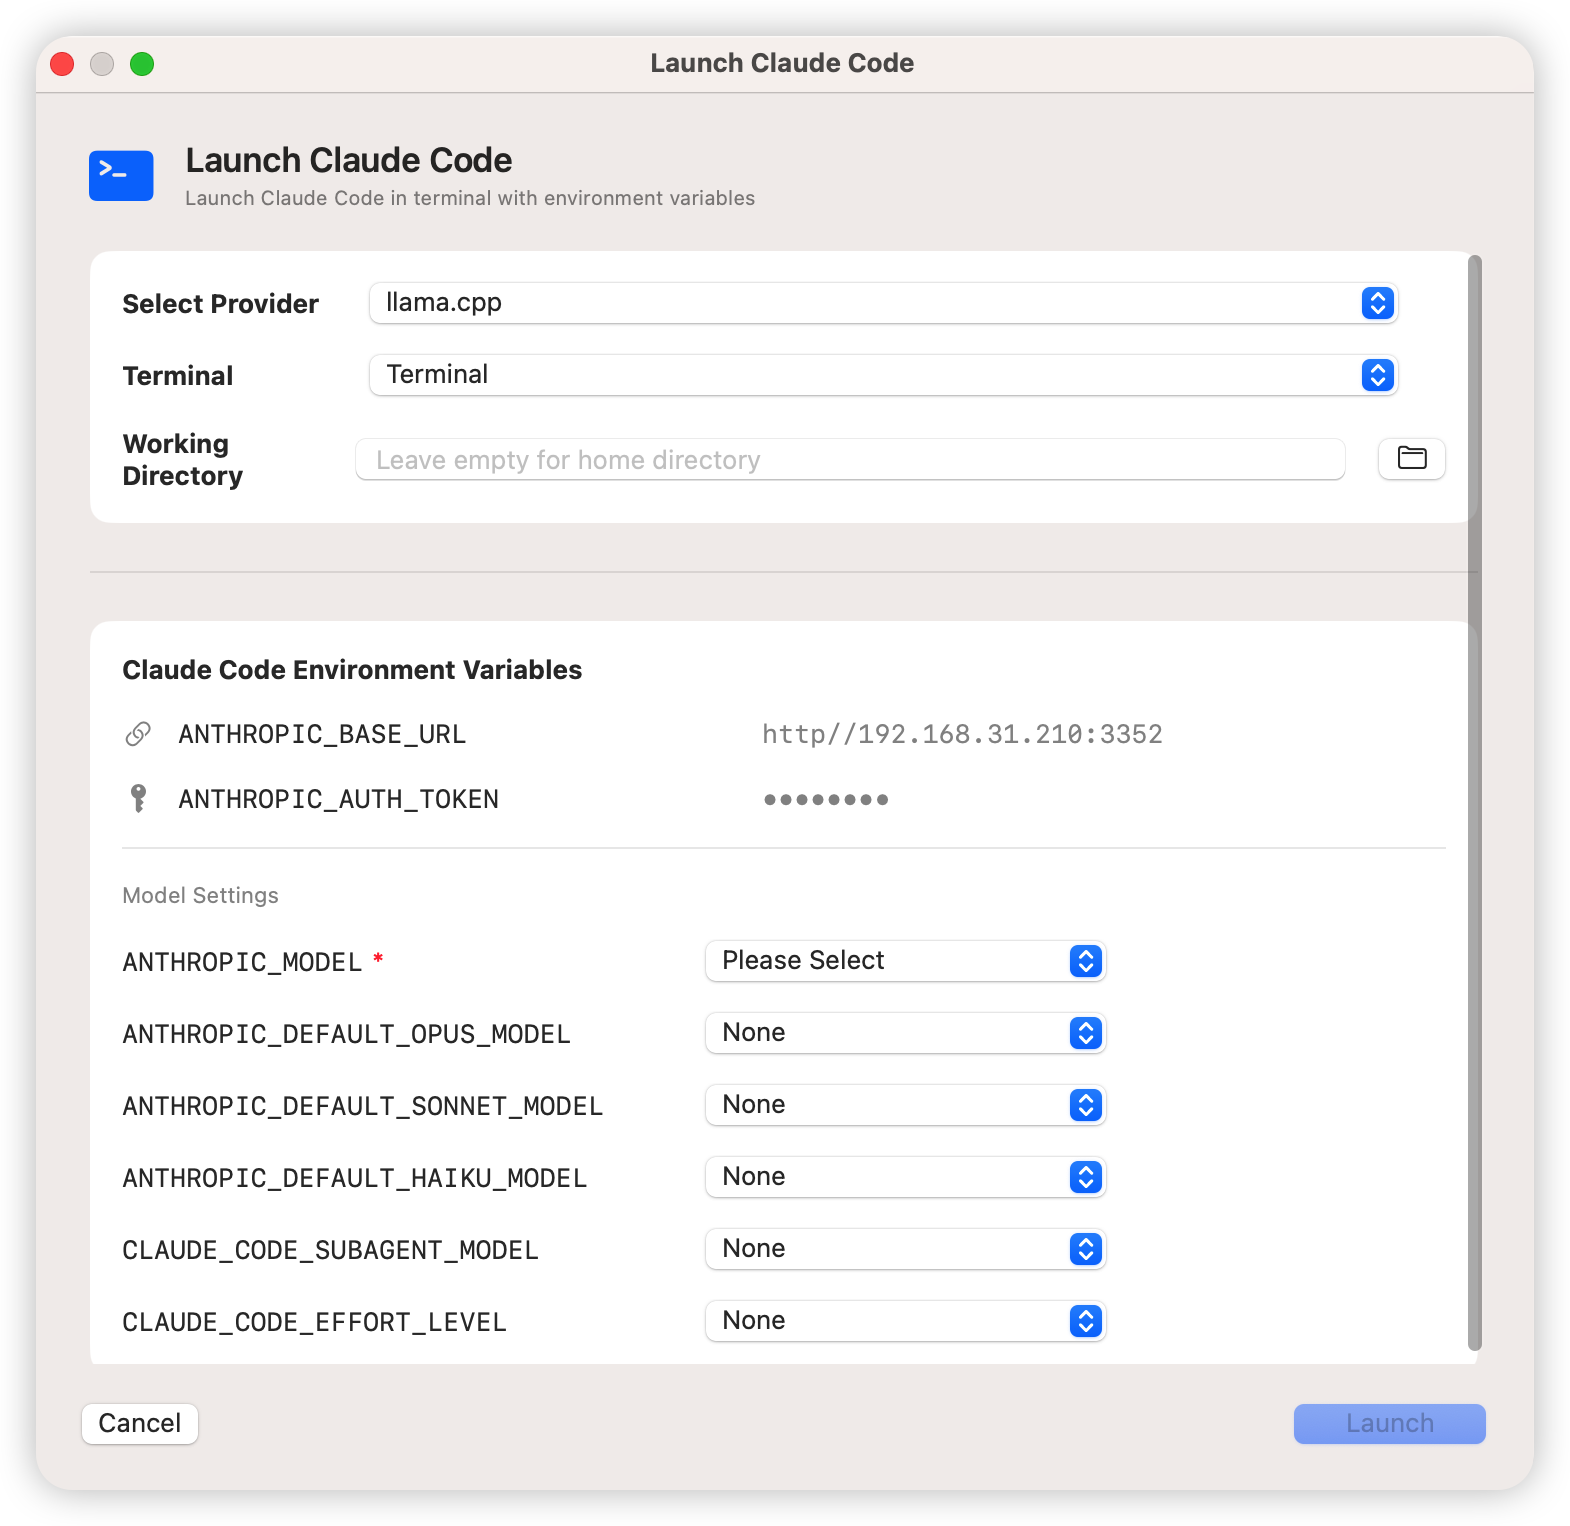
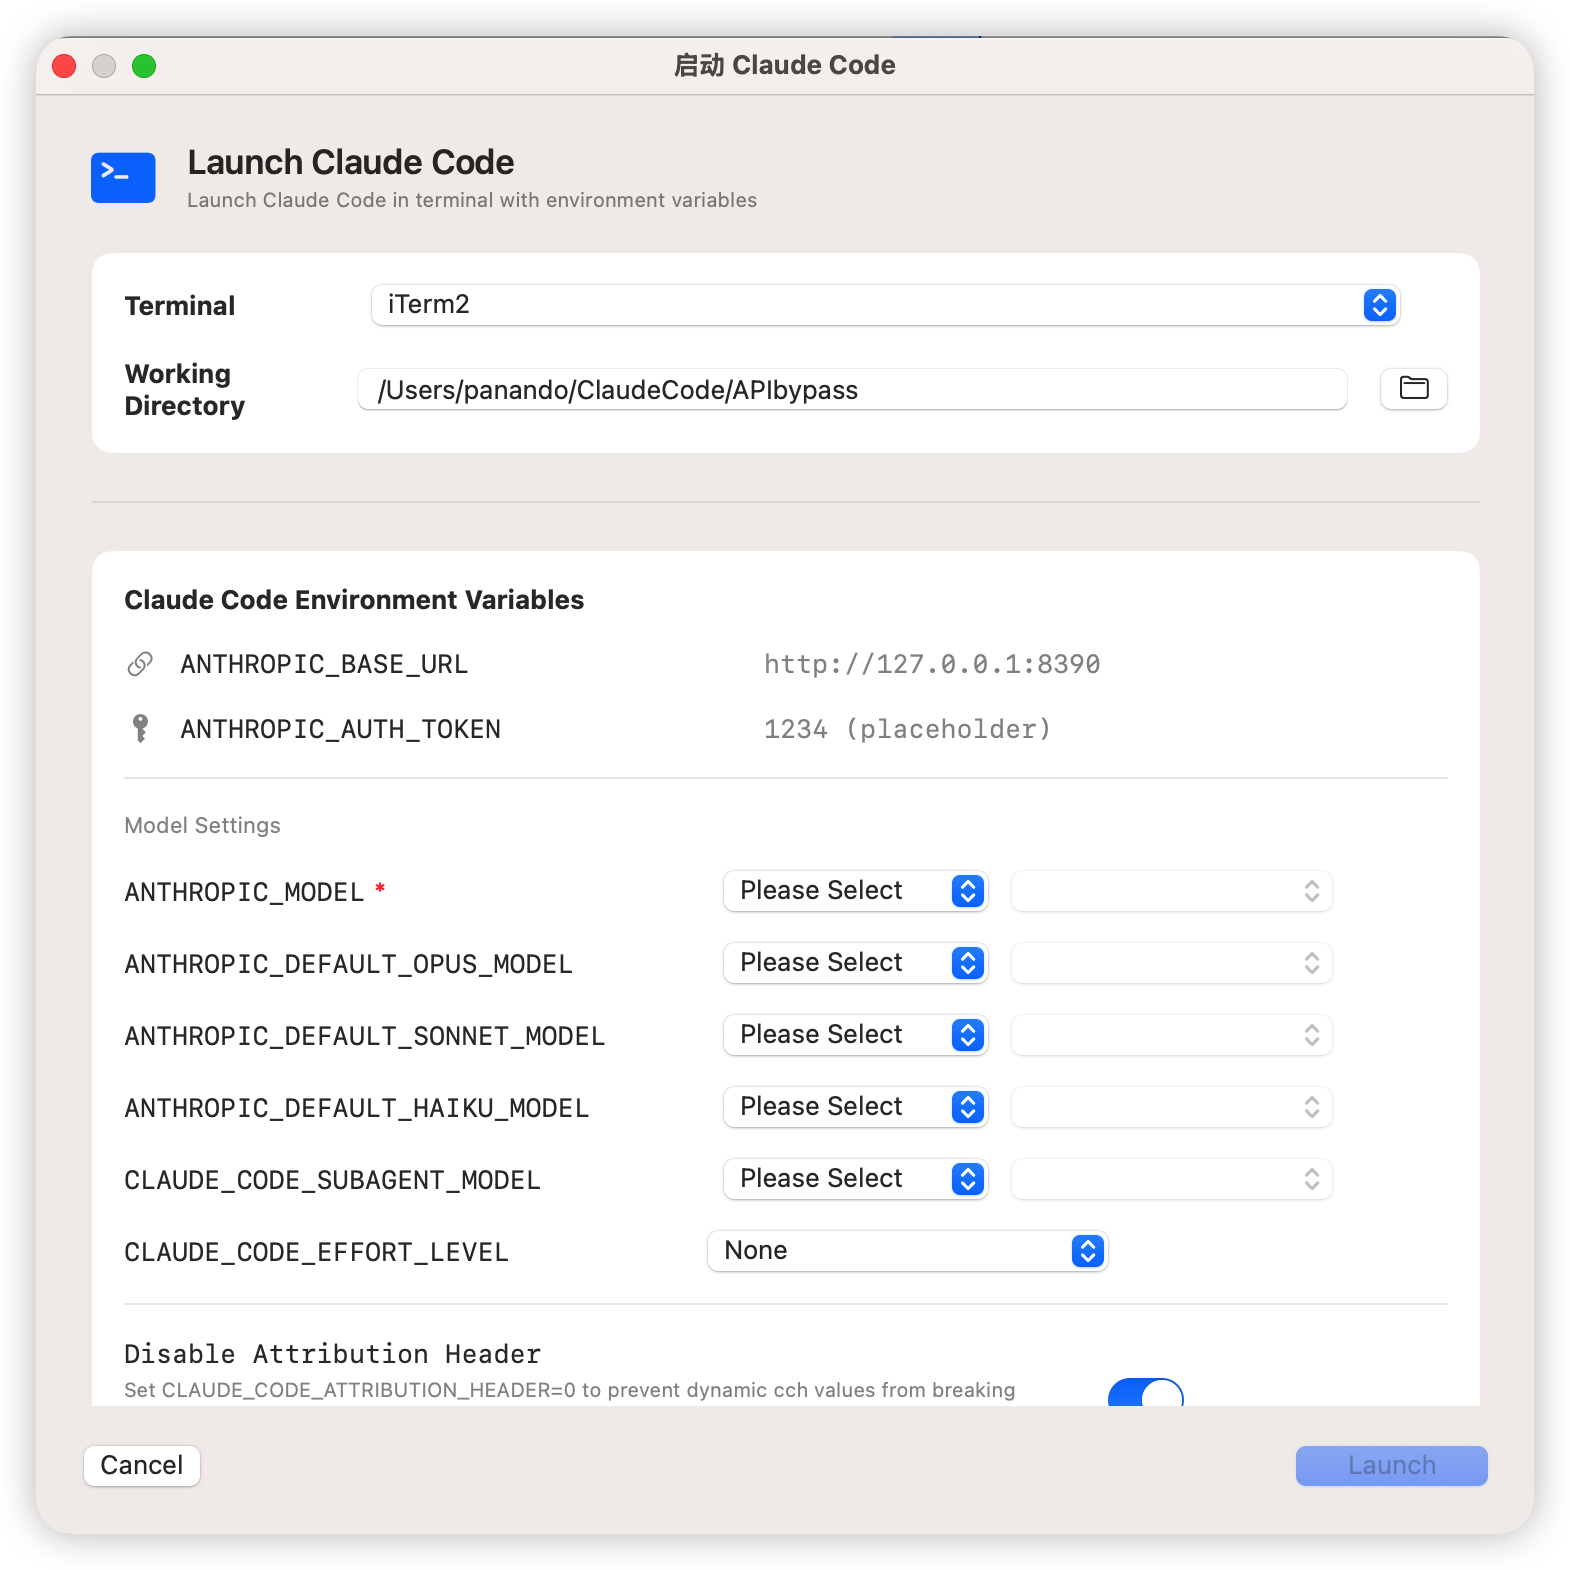
feat: v0.5.3 — Cross-provider model selection in Claude Code launcher
- Replace single provider picker with per-model two-tier selection (provider → mapping)
- Each model env var (ANTHROPIC_MODEL, OPUS, SONNET, HAIKU, SUBAGENT) can target different providers
- Remove redundant top-level provider selector from launcher UI
- Update screenshot for new launcher layout
- Bump version to 0.5.3

diff --git a/APIBypass/UI/Views/LaunchClaudeCodeView.swift b/APIBypass/UI/Views/LaunchClaudeCodeView.swift
@@ -5,27 +5,36 @@ struct LaunchClaudeCodeView: View {
     @Environment(\.dismiss) private var dismiss
 
     // 持久化设置
-    @AppStorage("launcher.selectedProviderId") private var savedProviderId: String?
+
     @AppStorage("launcher.selectedTerminalId") private var savedTerminalId: String = "terminal"
     @AppStorage("launcher.workingDirectory") private var savedWorkingDirectory: String = ""
     @AppStorage("launcher.anthropicModel") private var savedAnthropicModel: String = ""
+    @AppStorage("launcher.anthropicModelProviderId") private var savedAnthropicModelProviderId: String?
     @AppStorage("launcher.opusModel") private var savedOpusModel: String = ""
+    @AppStorage("launcher.opusModelProviderId") private var savedOpusModelProviderId: String?
     @AppStorage("launcher.sonnetModel") private var savedSonnetModel: String = ""
+    @AppStorage("launcher.sonnetModelProviderId") private var savedSonnetModelProviderId: String?
     @AppStorage("launcher.haikuModel") private var savedHaikuModel: String = ""
+    @AppStorage("launcher.haikuModelProviderId") private var savedHaikuModelProviderId: String?
     @AppStorage("launcher.subagentModel") private var savedSubagentModel: String = ""
+    @AppStorage("launcher.subagentModelProviderId") private var savedSubagentModelProviderId: String?
     @AppStorage("launcher.effortLevel") private var savedEffortLevel: String = ""
     @AppStorage("launcher.disableAttributionHeader") private var savedDisableAttributionHeader: Bool = false
     @AppStorage("launcher.rectifierEnabled") private var savedRectifierEnabled: Bool = true
     @AppStorage("serverPort") private var serverPort: Int = 8390
 
-    @State private var selectedProviderId: UUID?
     @State private var selectedTerminalId: String = "terminal"
     @State private var workingDirectory: String = ""
     @State private var showDirectoryPicker = false
+    @State private var anthropicModelProviderId: UUID?
     @State private var anthropicModel: String = ""
+    @State private var opusModelProviderId: UUID?
     @State private var opusModel: String = ""
+    @State private var sonnetModelProviderId: UUID?
     @State private var sonnetModel: String = ""
+    @State private var haikuModelProviderId: UUID?
     @State private var haikuModel: String = ""
+    @State private var subagentModelProviderId: UUID?
     @State private var subagentModel: String = ""
     @State private var effortLevel: String = ""
     @State private var disableAttributionHeader: Bool = false
@@ -42,17 +51,12 @@ struct LaunchClaudeCodeView: View {
         availableTerminals.first { $0.id == selectedTerminalId }
     }
 
-    private var selectedProvider: ProviderConfig? {
-        guard let id = selectedProviderId else { return nil }
-        return configManager.findProvider(for: id)
-    }
-
     private var localBaseURL: String {
         "http://127.0.0.1:\(serverPort)"
     }
 
     private var canLaunch: Bool {
-        guard selectedProvider != nil,
+        guard anthropicModelProviderId != nil,
               !anthropicModel.isEmpty,
               selectedTerminal != nil else {
             return false
@@ -70,13 +74,10 @@ struct LaunchClaudeCodeView: View {
                     // 提供商、终端、目录选择
                     selectionSection
 
-                    if let provider = selectedProvider {
-                        Divider()
-                            .padding(.vertical, 4)
+                    Divider()
+                        .padding(.vertical, 4)
 
-                        // 环境变量配置
-                        envVarsSection(provider: provider)
-                    }
+                    envVarsSection
                 }
                 .padding(.horizontal, 4)
             }
@@ -137,25 +138,6 @@ struct LaunchClaudeCodeView: View {
 
     private var selectionSection: some View {
         VStack(spacing: 16) {
-            // 提供商选择
-            HStack(spacing: 16) {
-                Text(L10n.t("select_provider"))
-                    .font(.headline)
-                    .frame(width: 100, alignment: .leading)
-
-                Picker("", selection: $selectedProviderId) {
-                    Text(L10n.t("please_select")).tag(UUID?.none)
-                    ForEach(configManager.providers) { provider in
-                        Text(provider.name).tag(provider.id as UUID?)
-                    }
-                }
-                .pickerStyle(.menu)
-                .frame(maxWidth: .infinity)
-                .onChange(of: selectedProviderId) { _, _ in saveSettings() }
-
-                Spacer()
-            }
-
             // 终端选择
             HStack(spacing: 16) {
                 Text(L10n.t("select_terminal"))
@@ -199,7 +181,7 @@ struct LaunchClaudeCodeView: View {
 
     // MARK: - Environment Variables Section
 
-    private func envVarsSection(provider: ProviderConfig) -> some View {
+    private var envVarsSection: some View {
         VStack(alignment: .leading, spacing: 16) {
             Text(L10n.t("claude_code_env_vars_title"))
                 .font(.headline)
@@ -229,34 +211,34 @@ struct LaunchClaudeCodeView: View {
             // ANTHROPIC_MODEL (必填)
             modelPickerRow(
                 name: "ANTHROPIC_MODEL",
-                selection: $anthropicModel,
-                mappings: enabledMappings(provider: provider),
+                providerId: $anthropicModelProviderId,
+                model: $anthropicModel,
                 isRequired: true
             )
 
             // 其他模型配置
             modelPickerRow(
                 name: "ANTHROPIC_DEFAULT_OPUS_MODEL",
-                selection: $opusModel,
-                mappings: enabledMappings(provider: provider)
+                providerId: $opusModelProviderId,
+                model: $opusModel
             )
 
             modelPickerRow(
                 name: "ANTHROPIC_DEFAULT_SONNET_MODEL",
-                selection: $sonnetModel,
-                mappings: enabledMappings(provider: provider)
+                providerId: $sonnetModelProviderId,
+                model: $sonnetModel
             )
 
             modelPickerRow(
                 name: "ANTHROPIC_DEFAULT_HAIKU_MODEL",
-                selection: $haikuModel,
-                mappings: enabledMappings(provider: provider)
+                providerId: $haikuModelProviderId,
+                model: $haikuModel
             )
 
             modelPickerRow(
                 name: "CLAUDE_CODE_SUBAGENT_MODEL",
-                selection: $subagentModel,
-                mappings: enabledMappings(provider: provider)
+                providerId: $subagentModelProviderId,
+                model: $subagentModel
             )
 
             // EFFORT_LEVEL
@@ -351,7 +333,7 @@ struct LaunchClaudeCodeView: View {
         }
     }
 
-    private func modelPickerRow(name: String, selection: Binding<String>, mappings: [ModelMapping], isRequired: Bool = false) -> some View {
+    private func modelPickerRow(name: String, providerId: Binding<UUID?>, model: Binding<String>, isRequired: Bool = false) -> some View {
         HStack(spacing: 12) {
             HStack(spacing: 4) {
                 Text(name)
@@ -365,15 +347,35 @@ struct LaunchClaudeCodeView: View {
             }
             .frame(width: 280, alignment: .leading)
 
-            Picker("", selection: selection) {
-                Text(isRequired ? L10n.t("please_select") : L10n.t("none")).tag("")
-                ForEach(mappings, id: \.id) { mapping in
-                    Text(mapping.incomingModel).tag(mapping.incomingModel)
+            Picker("", selection: providerId) {
+                Text(L10n.t("please_select")).tag(UUID?.none)
+                ForEach(configManager.providers) { provider in
+                    Text(provider.name).tag(provider.id as UUID?)
                 }
             }
+            .pickerStyle(.menu)
+            .frame(width: 140)
+            .onChange(of: providerId.wrappedValue) { oldValue, newValue in
+                if oldValue != newValue {
+                    model.wrappedValue = ""
+                }
+                saveSettings()
+            }
+
+            let selectedProvider = providerId.wrappedValue.flatMap { configManager.findProvider(for: $0) }
+            Picker("", selection: model) {
+                Text(isRequired ? L10n.t("please_select") : L10n.t("none")).tag("")
+                if let provider = selectedProvider {
+                    ForEach(enabledMappings(provider: provider), id: \.id) { mapping in
+                        Text(mapping.incomingModel).tag(mapping.incomingModel)
+                    }
+                }
+            }
+            .pickerStyle(.menu)
             .labelsHidden()
-            .frame(width: 200)
-            .onChange(of: selection.wrappedValue) { _, _ in saveSettings() }
+            .frame(width: 160)
+            .disabled(selectedProvider == nil)
+            .onChange(of: model.wrappedValue) { _, _ in saveSettings() }
 
             Spacer()
         }
@@ -431,42 +433,50 @@ struct LaunchClaudeCodeView: View {
     // MARK: - Persistence
 
     private func loadSavedSettings() {
-        // 恢复上次选择的提供商
-        if let idString = savedProviderId,
-           let id = UUID(uuidString: idString),
-           configManager.findProvider(for: id) != nil {
-            selectedProviderId = id
-        }
-
-        // 恢复终端选择
         if availableTerminals.contains(where: { $0.id == savedTerminalId }) {
             selectedTerminalId = savedTerminalId
         } else if let first = availableTerminals.first {
             selectedTerminalId = first.id
         }
 
-        // 恢复工作目录
         workingDirectory = savedWorkingDirectory
 
-        // 恢复上次的环境变量设置
+        anthropicModelProviderId = uuidFrom(saved: savedAnthropicModelProviderId)
         anthropicModel = savedAnthropicModel
+        opusModelProviderId = uuidFrom(saved: savedOpusModelProviderId)
         opusModel = savedOpusModel
+        sonnetModelProviderId = uuidFrom(saved: savedSonnetModelProviderId)
         sonnetModel = savedSonnetModel
+        haikuModelProviderId = uuidFrom(saved: savedHaikuModelProviderId)
         haikuModel = savedHaikuModel
+        subagentModelProviderId = uuidFrom(saved: savedSubagentModelProviderId)
         subagentModel = savedSubagentModel
         effortLevel = savedEffortLevel
         disableAttributionHeader = savedDisableAttributionHeader
         rectifierEnabled = savedRectifierEnabled
     }
 
+    private func uuidFrom(saved: String?) -> UUID? {
+        guard let idString = saved,
+              let id = UUID(uuidString: idString),
+              configManager.findProvider(for: id) != nil else {
+            return nil
+        }
+        return id
+    }
+
     private func saveSettings() {
-        savedProviderId = selectedProviderId?.uuidString
         savedTerminalId = selectedTerminalId
         savedWorkingDirectory = workingDirectory
+        savedAnthropicModelProviderId = anthropicModelProviderId?.uuidString
         savedAnthropicModel = anthropicModel
+        savedOpusModelProviderId = opusModelProviderId?.uuidString
         savedOpusModel = opusModel
+        savedSonnetModelProviderId = sonnetModelProviderId?.uuidString
         savedSonnetModel = sonnetModel
+        savedHaikuModelProviderId = haikuModelProviderId?.uuidString
         savedHaikuModel = haikuModel
+        savedSubagentModelProviderId = subagentModelProviderId?.uuidString
         savedSubagentModel = subagentModel
         savedEffortLevel = effortLevel
         savedDisableAttributionHeader = disableAttributionHeader
@@ -476,8 +486,11 @@ struct LaunchClaudeCodeView: View {
     // MARK: - Launch
 
     private func launchClaudeCode() {
-        guard let provider = selectedProvider,
-              let terminal = selectedTerminal else {
+        guard let terminal = selectedTerminal else {
+            errorMessage = L10n.t("no_terminal_selected")
+            return
+        }
+        guard let defaultProvider = anthropicModelProviderId.flatMap({ configManager.findProvider(for: $0) }) else {
             errorMessage = L10n.t("no_provider_selected")
             return
         }
@@ -503,7 +516,7 @@ struct LaunchClaudeCodeView: View {
 
         let launcher = ClaudeCodeLauncher()
         let configuration = LaunchConfiguration(
-            provider: provider,
+            provider: defaultProvider,
             selectedMapping: nil,
             customEnvVars: customEnvVars,
             workingDirectory: workDir,

diff --git a/RELEASE_NOTES.md b/RELEASE_NOTES.md
@@ -1,3 +1,36 @@
+# APIBypass v0.5.3
+
+## What's New
+
+### Cross-Provider Model Selection in Claude Code Launcher
+- **Per-model provider picker**: each model environment variable (ANTHROPIC_MODEL, OPUS, SONNET, HAIKU, SUBAGENT) now has an independent two-tier picker — first select the provider, then choose a mapping from that provider
+- **Removed top-level provider selector**: the previous single provider picker at the top of the launcher is no longer needed, since each model carries its own provider context
+- All five models can now route to different upstream providers simultaneously
+
+## Changelog
+
+- feat: two-tier model selection (provider → mapping) per model in Claude Code launcher
+- feat: cross-provider model support — each env var model can target a different provider
+- feat: remove redundant top-level provider picker from launcher UI
+- docs: update screenshot for new launcher layout
+
+## Download
+
+- [APIBypass-0.5.3.dmg](https://github.com/panando/APIBypass/releases/tag/v0.5.3)
+
+## Build from Source
+
+```bash
+git clone https://github.com/panando/APIBypass.git
+cd APIBypass
+git checkout v0.5.3
+swift build -c release
+```
+
+**Requirements**: macOS 14.0+, Swift 6.0+, Xcode 16.0+
+
+---
+
 # APIBypass v0.5.2
 
 ## What's New
@@ -142,6 +175,7 @@ swift build -c release
 
 ## Previous Releases
 
+- [v0.5.2](https://github.com/panando/APIBypass/releases/tag/v0.5.2) - OpenAI Responses API, Claude Code compatibility fixes, URL building improvements
 - [v0.5.1](https://github.com/panando/APIBypass/releases/tag/v0.5.1) - Build warnings cleanup
 - [v0.5.0](https://github.com/panando/APIBypass/releases/tag/v0.5.0) - API format translation, Claude Code launcher, i18n
 - [v0.4.0](https://github.com/panando/APIBypass/releases/tag/v0.4.0) - Provider management, hierarchical UI

diff --git a/README.md b/README.md
@@ -25,6 +25,8 @@ Many AI clients don't let you customize API request parameters, and some clients
 
 4. **Claude Code Launcher**: One-click launch Claude Code in your preferred terminal with all environment variables pre-configured.
 
+![menu](menu.png)
+
 ### Use Cases
 
 - **Claude Code with OpenAI APIs**: Use Claude Code with DeepSeek, Qwen, or any OpenAI-compatible provider — automatic format translation handles the protocol difference.

diff --git a/README_CN.md b/README_CN.md
@@ -25,6 +25,8 @@
 
 4. **Claude Code 启动器**：一键在选定的终端中启动 Claude Code，自动注入所有环境变量。
 
+![menu](menu.png)
+
 ### 典型场景
 
 - **Claude Code + OpenAI API**：让 Claude Code 使用 DeepSeek、Qwen 等 OpenAI 兼容提供商 —— 自动格式转换解决协议差异
